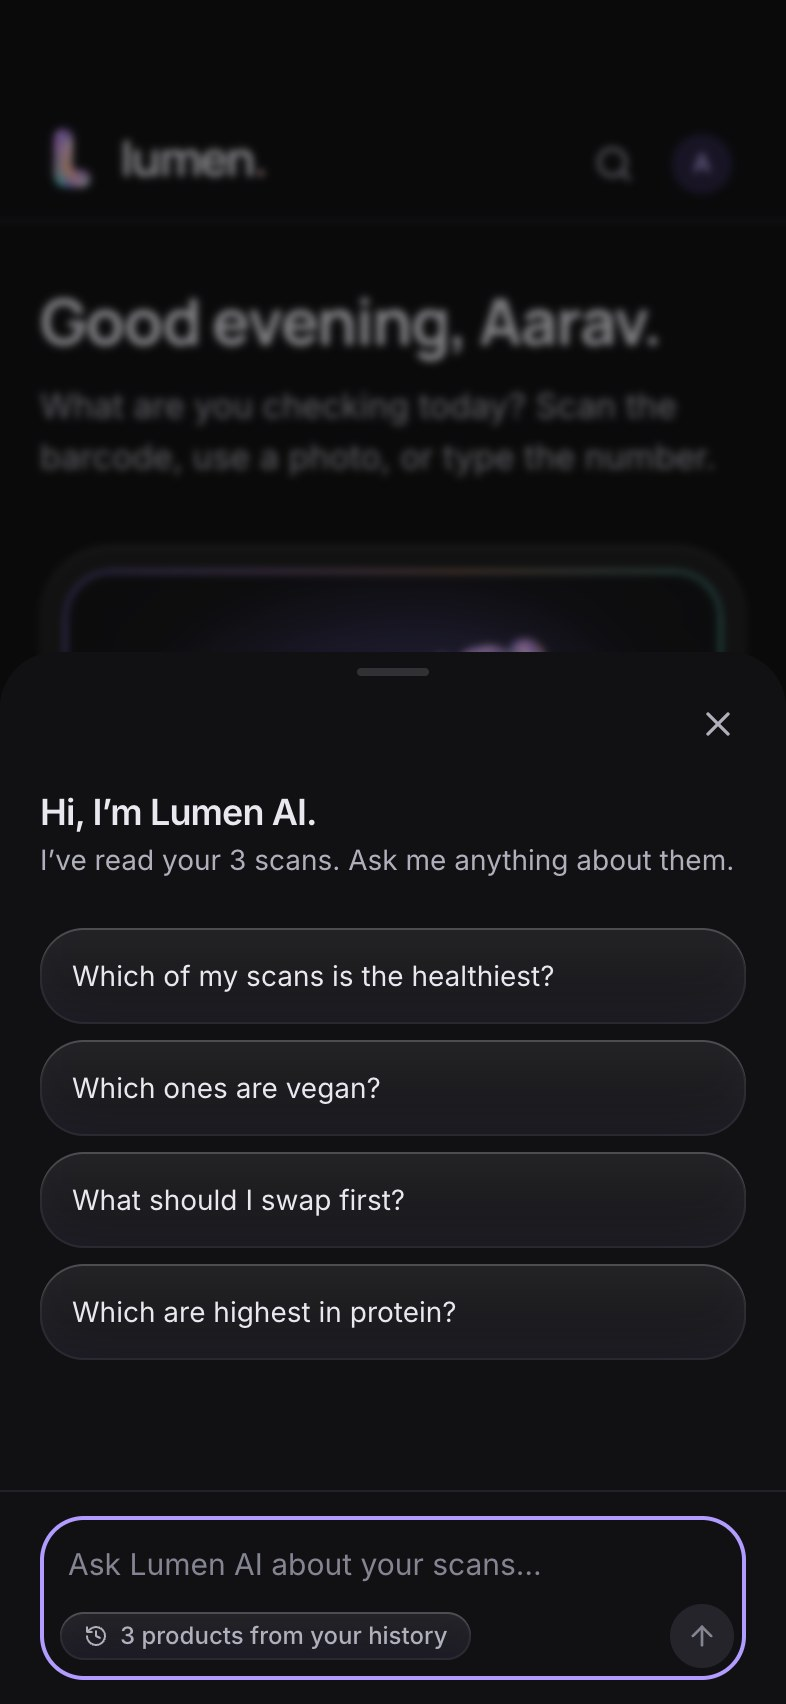
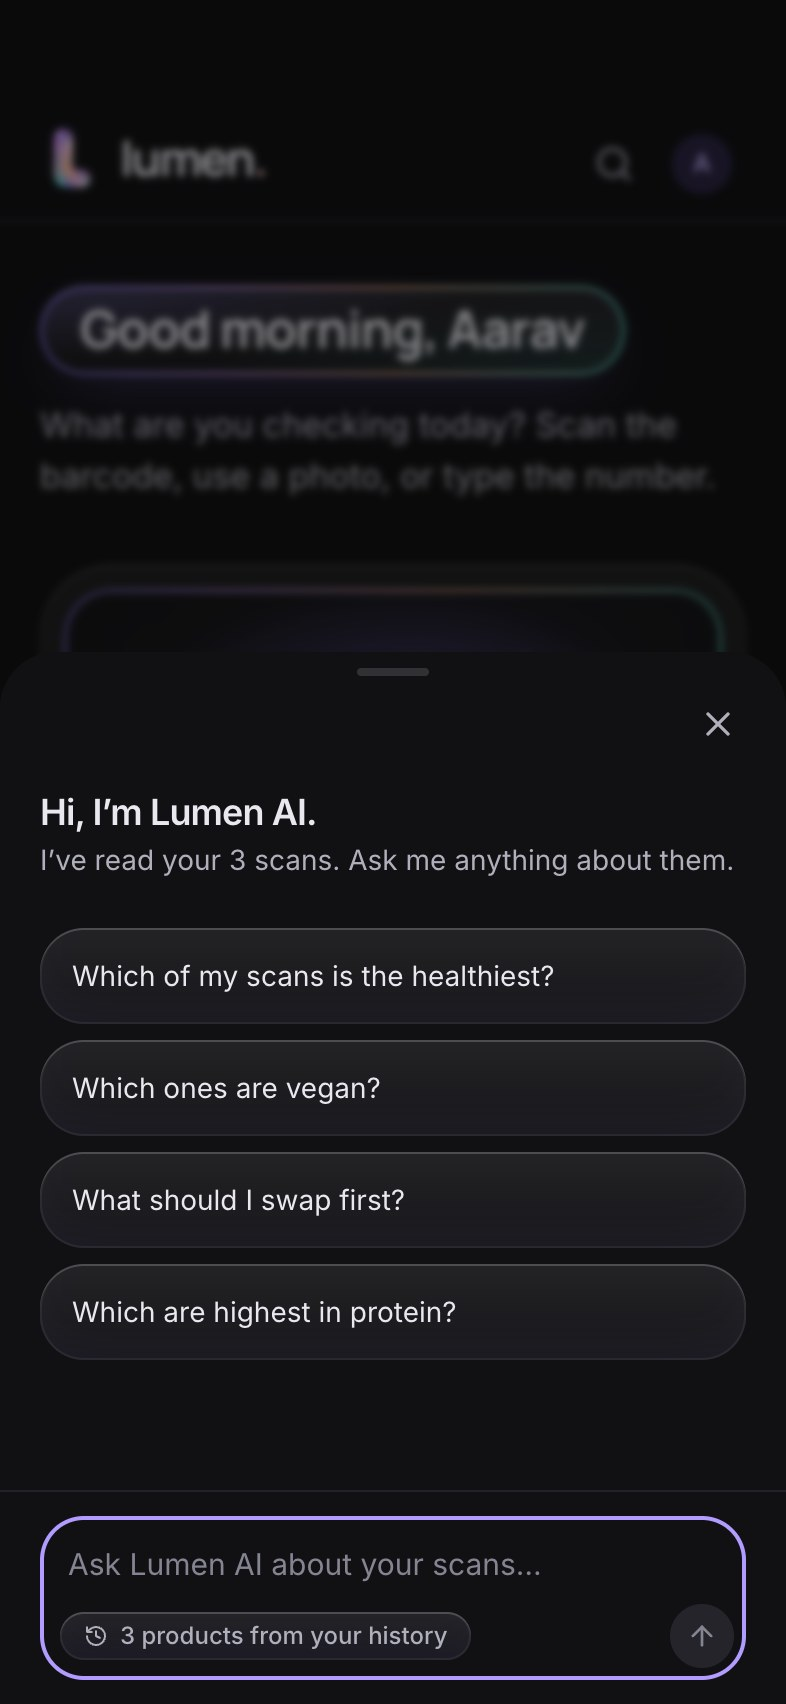
Drop the periods from app page titles
Settings, History, Compare and the Scan greeting no longer end in a period.
Landing-page phone screenshots re-captured to match.

Changed region(s): [[0.0305, 0.1555, 0.916, 0.311], [0.6107, 0.3732, 0.7023, 0.4043], [0.2137, 0.3421, 0.2748, 0.3732]]

diff --git a/src/components/app/ScannerHome.tsx b/src/components/app/ScannerHome.tsx
@@ -121,7 +121,7 @@ export default function ScannerHome({ onOpen }: { onOpen: (code: string) => void
       <div className="mx-auto max-w-2xl">
       <PageHeader
         id="scan-h"
-        title={user?.user_metadata?.display_name ? `${greeting}, ${user.user_metadata.display_name}.` : `${greeting}.`}
+        title={user?.user_metadata?.display_name ? `${greeting}, ${user.user_metadata.display_name}` : greeting}
         subtitle="What are you checking today? Scan the barcode, use a photo, or type the number."
       />
       <section aria-labelledby="scan-h" className="scanner-workspace">

diff --git a/src/components/app/CompareView.tsx b/src/components/app/CompareView.tsx
@@ -92,7 +92,7 @@ export function CompareView() {
 
   return (
     <>
-      <PageHeader title="Compare." subtitle="Pick two products you have scanned and see which is the better choice." />
+      <PageHeader title="Compare" subtitle="Pick two products you have scanned and see which is the better choice." />
 
       {entries === null ? (
         <div className="grid gap-3 sm:grid-cols-2" aria-hidden="true">

diff --git a/src/app/settings/page.tsx b/src/app/settings/page.tsx
@@ -38,7 +38,7 @@ function Settings() {
 
   return (
     <div className="mx-auto max-w-2xl">
-      <PageHeader title="Settings." />
+      <PageHeader title="Settings" />
       <div className="space-y-10">
         <AccountSection />
         <FoodProfileSection />

diff --git a/src/app/history/page.tsx b/src/app/history/page.tsx
@@ -229,7 +229,7 @@ function History() {
   return (
     <div className="mx-auto max-w-2xl">
       <PageHeader
-        title="History."
+        title="History"
         subtitle={
           rows === null
             ? '\u00a0'
